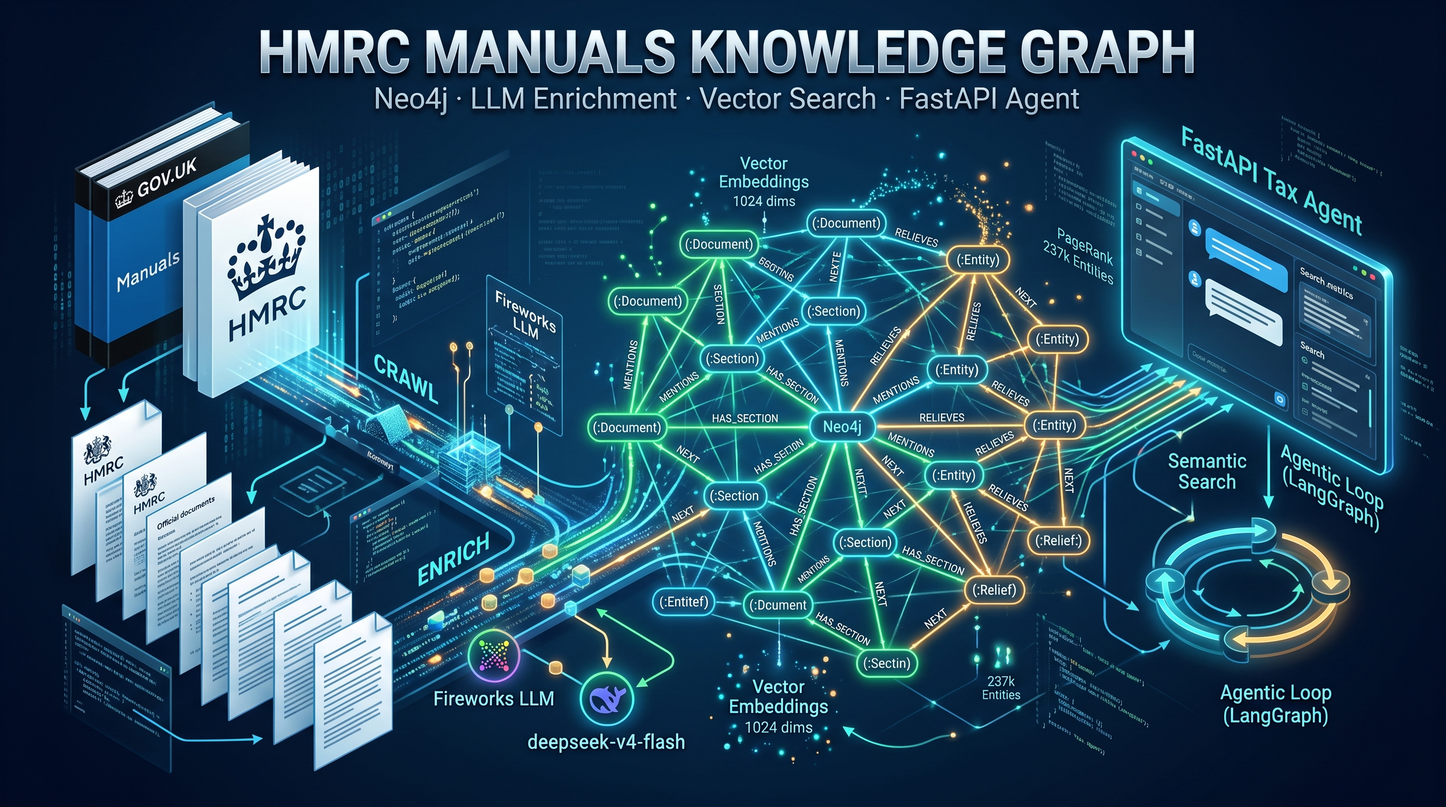
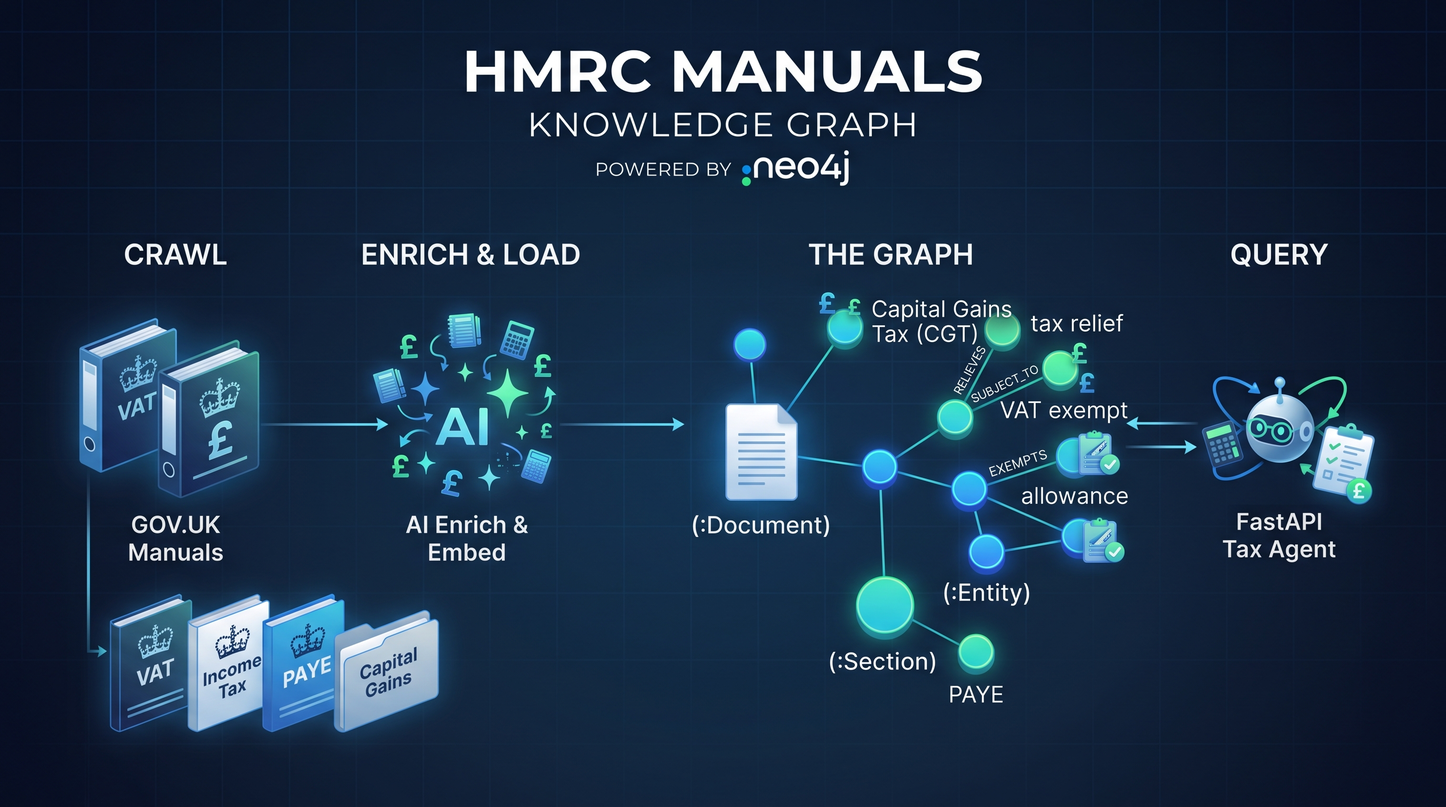
Added FastAPI explanation

diff --git a/README.md b/README.md
@@ -339,6 +339,23 @@ returns the final answer; `POST /api/chat/stream` streams SSE events
 subgraph is rendered to a self-contained visualization served at
 `/viz/{viz_id}`.
 
+FastAPI is the **serving layer** of the architecture: it wraps the LLM
+tax agent (`app.py` + the `agent/` package) in a web API on top of the
+Neo4j knowledge graph. Its four endpoints are:
+
+- `POST /api/chat` - non-streaming: runs the agentic loop (`run_agent`)
+  and returns the final structured, cited answer.
+- `POST /api/chat/stream` - streaming: emits SSE events so the UI shows
+  each `tool_call` as the agent works, followed by the `answer`.
+- `GET /` - serves the chat web UI (`static/index.html`).
+- `GET /viz/{viz_id}` - serves the self-contained Neo4j visualization of
+  the subgraph that produced an answer.
+
+Its role is a thin HTTP wrapper - request validation (Pydantic
+`ChatRequest`), SSE streaming, and static file serving - while all the
+intelligence lives in the agent package (the agentic loop over the
+graph/vector search) and the graph itself.
+
 ## How the LLM output is constrained
 
 The extraction model doesn't produce free text that we then parse:
